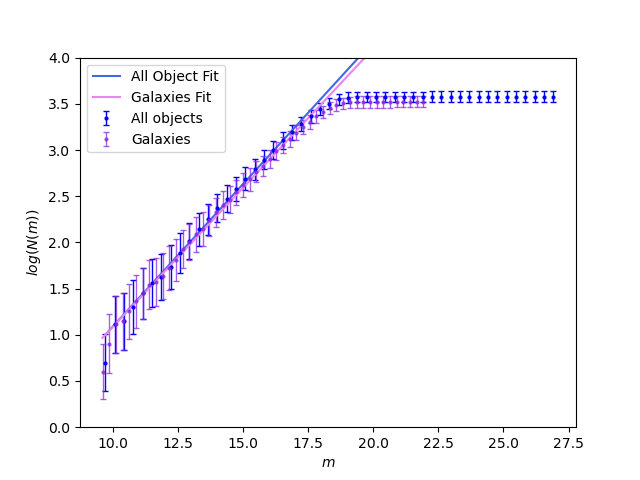
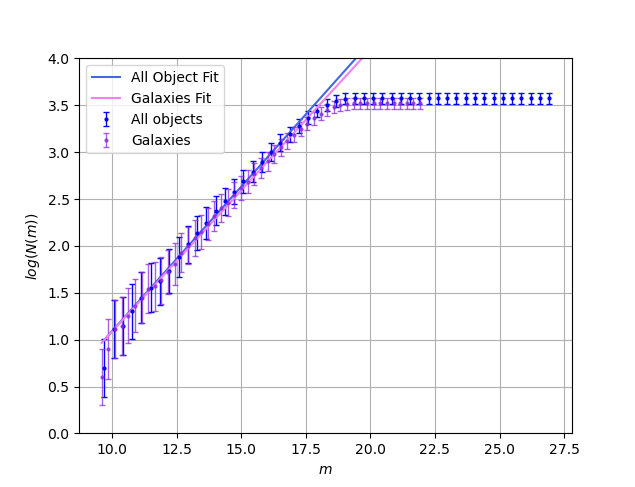
Code2 29/3/23

diff --git a/astrooop2.py b/astrooop2.py
@@ -398,7 +398,8 @@ if __name__ == '__main__':
 
 
     # m1,N1=image.number_count(plotting=False,ser=True)
-    plt.figure()
+    plt.figure(figsize=(7,7))
+    plt.grid()
     plt.xlabel(r'$m$')
     plt.ylabel(r'$log(N(m))$')
     plt.errorbar(m,logN,yerr=logNerr,fmt='.',color='blue',label='All objects',capsize=2,elinewidth=1,markersize=4)
